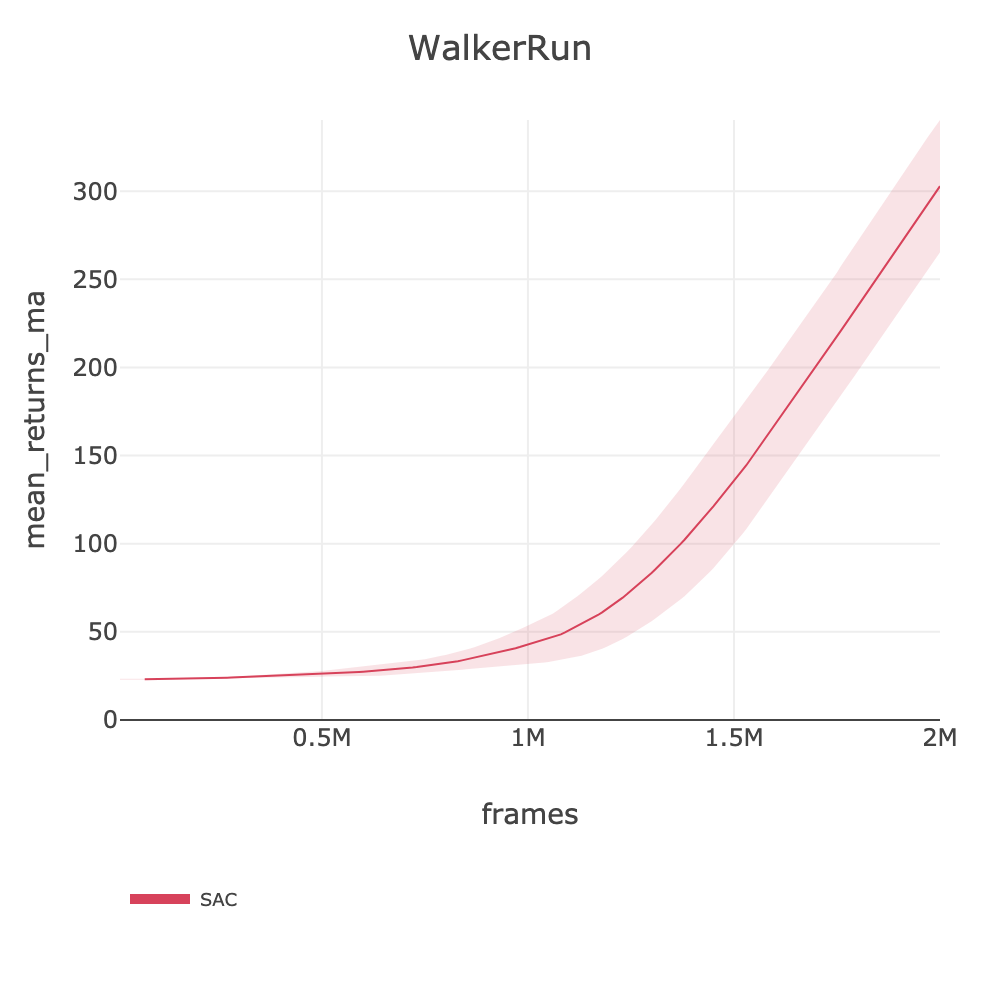
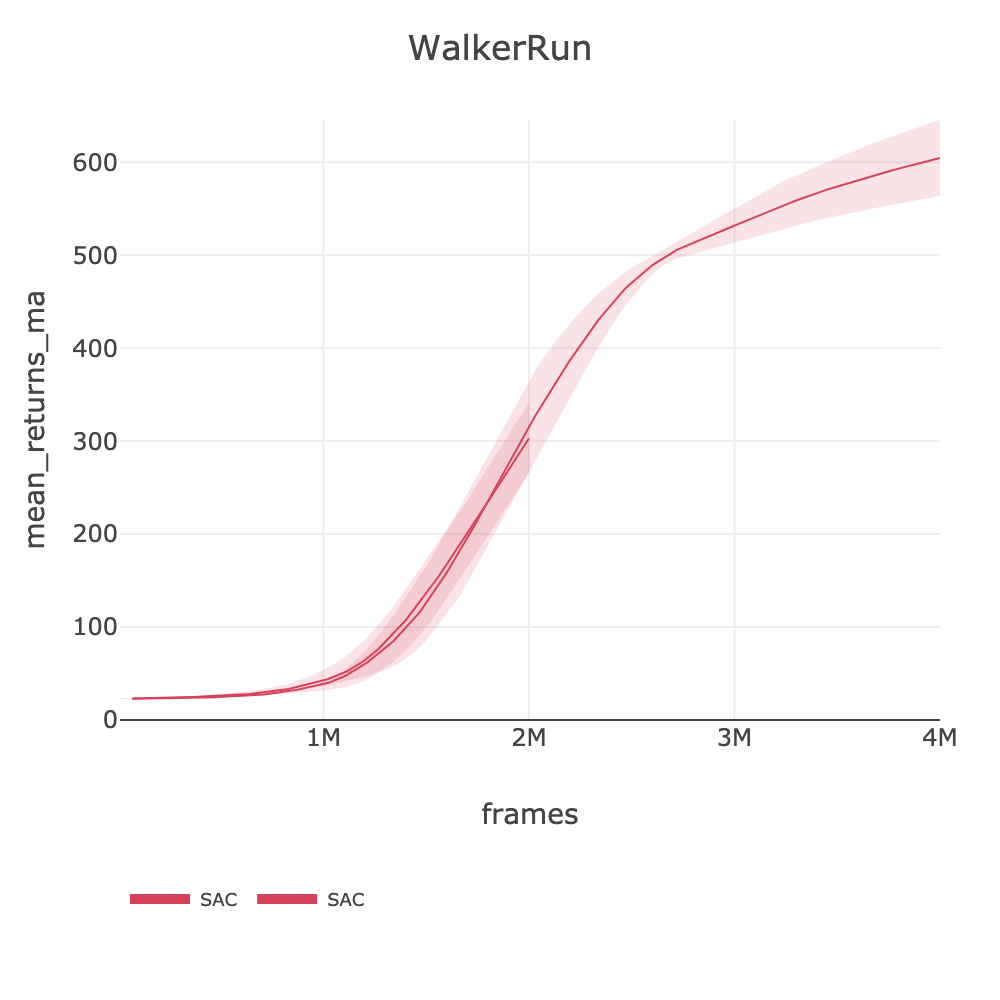
feat: Phase 5 WalkerRun SAC 4M (604.51), up from 302.88

diff --git a/docs/BENCHMARKS.md b/docs/BENCHMARKS.md
@@ -815,7 +815,7 @@ source .env && slm-lab run-remote --gpu -s env=playground/CartpoleBalance -s max
 | playground/ReacherEasy | PPO | 285.63 | ~945 | ~2000 (256e) | 500K | ~0.1h | [ppo_playground_arc_reachereasy_2026_03_06_102444](https://huggingface.co/datasets/SLM-Lab/benchmark-dev/tree/main/data/ppo_playground_arc_reachereasy_2026_03_06_102444) |
 | playground/ReacherHard | SAC | 958.57 | ~225 | ~481 (fast/64e) | 2M | ~1.2h | [sac_playground_arc_fast_reacherhard_2026_03_06_181908](https://huggingface.co/datasets/SLM-Lab/benchmark-dev/tree/main/data/sac_playground_arc_fast_reacherhard_2026_03_06_181908) |
 | playground/SwimmerSwimmer6 | SAC | 137.46 | ~300 | ~518 (fast/64e) | 2M | ~1.1h | [sac_playground_arc_fast_swimmerswimmer6_2026_03_06_221116](https://huggingface.co/datasets/SLM-Lab/benchmark-dev/tree/main/data/sac_playground_arc_fast_swimmerswimmer6_2026_03_06_221116) |
-| playground/WalkerRun | SAC | 302.88 | ~678 | ~290 (fast/64e) | 2M | ~1.9h | [sac_playground_arc_fast_walkerrun_2026_03_06_181845](https://huggingface.co/datasets/SLM-Lab/benchmark-dev/tree/main/data/sac_playground_arc_fast_walkerrun_2026_03_06_181845) |
+| playground/WalkerRun | SAC | 604.51 | ~678 | ~289 (fast/64e) | 4M | ~3.8h | [sac_playground_arc_fast_walkerrun_2026_03_07_082256](https://huggingface.co/datasets/SLM-Lab/benchmark-dev/tree/main/data/sac_playground_arc_fast_walkerrun_2026_03_07_082256) |
 | playground/WalkerStand | SAC | 934.20 | ~983 | ~345 (fast/64e) | 1M | ~0.8h | [sac_playground_arc_fast_walkerstand_2026_03_06_114303](https://huggingface.co/datasets/SLM-Lab/benchmark-dev/tree/main/data/sac_playground_arc_fast_walkerstand_2026_03_06_114303) |
 | playground/WalkerWalk | PPO | 73.21 | ~902 | ~2000 (256e) | 2M | ~0.3h | [ppo_playground_arc_walkerwalk_2026_03_06_134336](https://huggingface.co/datasets/SLM-Lab/benchmark-dev/tree/main/data/ppo_playground_arc_walkerwalk_2026_03_06_134336) |
 | | SAC | 883.86 | | ~345 (fast/64e) | 1M | ~0.8h | [sac_playground_arc_fast_walkerwalk_2026_03_06_114337](https://huggingface.co/datasets/SLM-Lab/benchmark-dev/tree/main/data/sac_playground_arc_fast_walkerwalk_2026_03_06_114337) |
